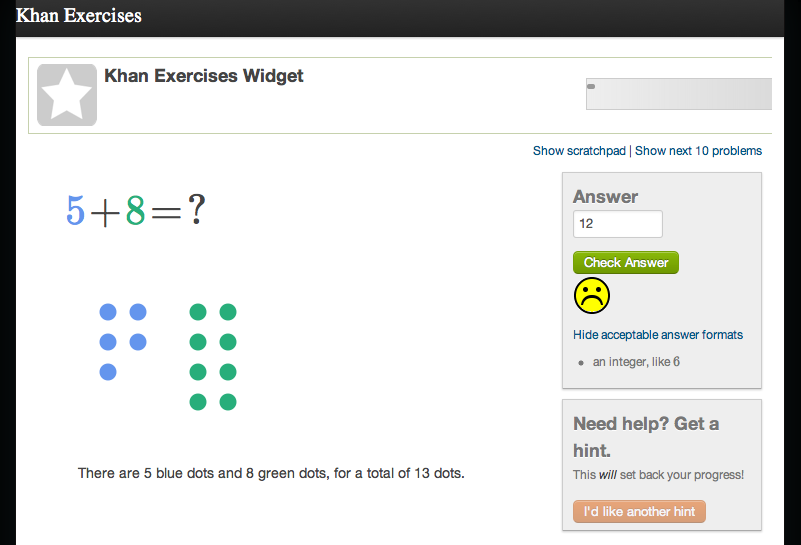
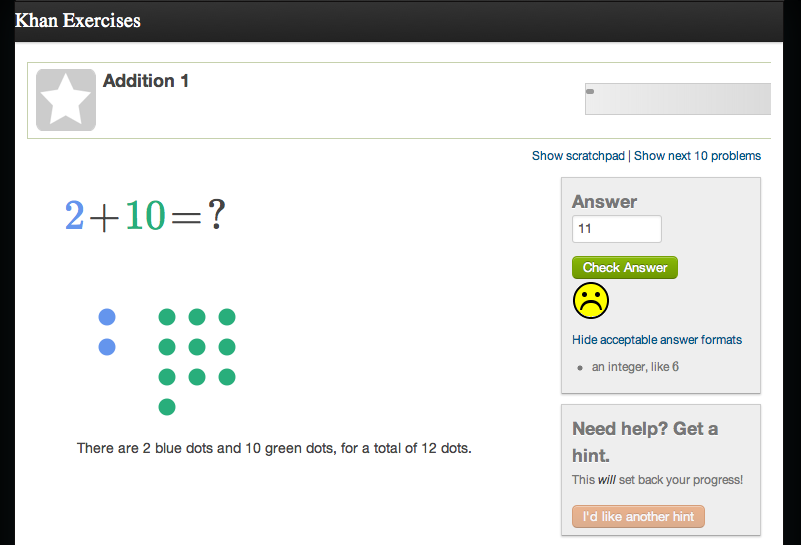
page title set to activity title

diff --git a/widgets/khanExercises.wdgt/runner/exercise-runner.html b/widgets/khanExercises.wdgt/runner/exercise-runner.html
@@ -3,7 +3,7 @@
 <html lang="en">
   <head>
     <meta charset="utf-8">
-    <title>Khan Exercises Widget</title>
+    <title>Addition 1</title>
     <meta name="viewport" content="width=device-width, initial-scale=1.0">
     <meta name="description" content="">
     <meta name="author" content="">
